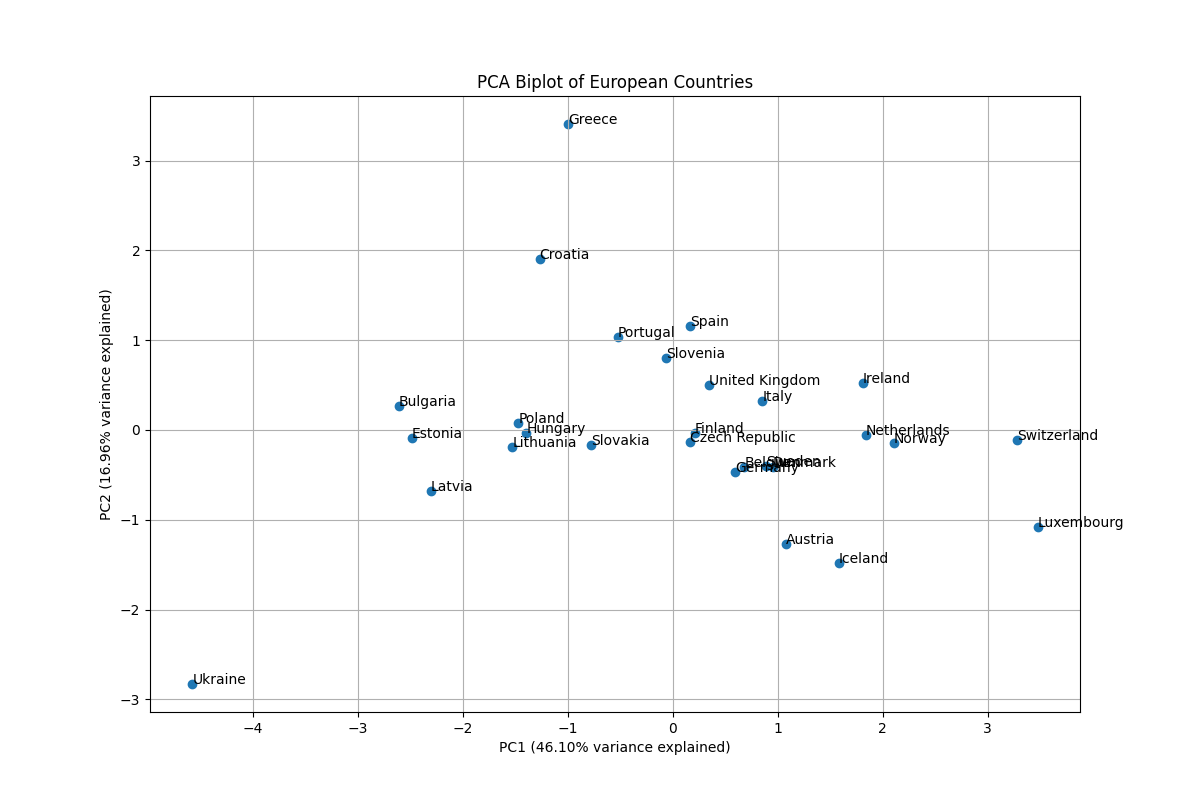
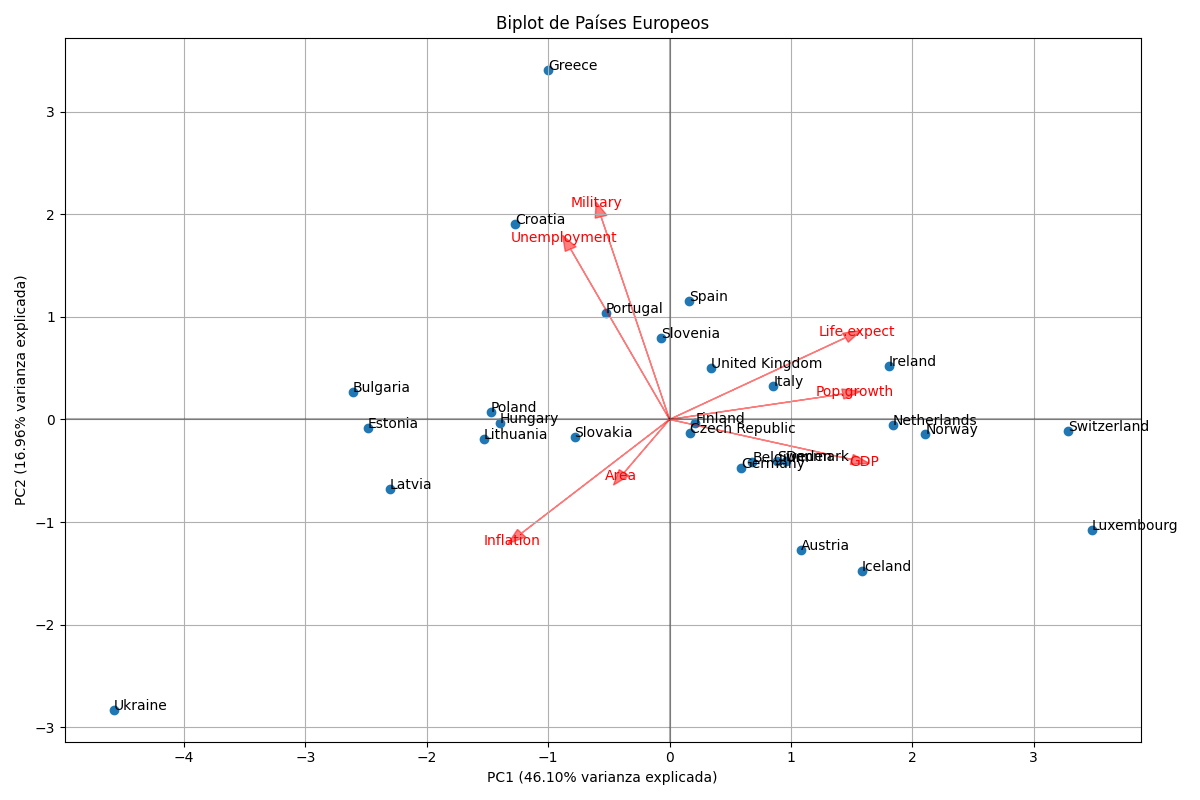
small fixes

diff --git a/pca_analysis.py b/pca_analysis.py
@@ -57,16 +57,41 @@ plt.tight_layout()
 plt.savefig('pc1_contributions.png')
 plt.close()
 
+# Create bar plot for PC1 scores by country
+plt.figure(figsize=(15, 8))
+pc1_scores = pd.DataFrame({'Country': countries, 'PC1': X_pca[:, 0]})
+pc1_scores_sorted = pc1_scores.sort_values('PC1', ascending=False)
+plt.bar(range(len(pc1_scores_sorted)), pc1_scores_sorted['PC1'])
+plt.xticks(range(len(pc1_scores_sorted)), pc1_scores_sorted['Country'], rotation=45, ha='right')
+plt.ylabel('Score PC1')
+plt.title('Contribución del PC1 por País')
+plt.grid(True, axis='y')
+plt.tight_layout()
+plt.savefig('pc1_countries.png')
+plt.close()
+
+# Create biplot for PC1 vs PC2
 plt.figure(figsize=(12, 8))
 plt.scatter(pca_df['PC1'], pca_df['PC2'])
 
+# Add country labels
 for i, country in enumerate(countries):
     plt.annotate(country, (pca_df['PC1'][i], pca_df['PC2'][i]))
 
-plt.xlabel(f'PC1 ({explained_variance_ratio[0]:.2%} variance explained)')
-plt.ylabel(f'PC2 ({explained_variance_ratio[1]:.2%} variance explained)')
-plt.title('PCA Biplot of European Countries')
+# Add arrows for each variable
+for i, feature in enumerate(X.columns):
+    plt.arrow(0, 0, pca.components_[0][i]*3, pca.components_[1][i]*3, 
+              color='r', alpha=0.5, head_width=0.1)
+    plt.text(pca.components_[0][i]*3.2, pca.components_[1][i]*3.2, 
+             feature, color='r', ha='center', va='center')
+
+plt.xlabel(f'PC1 ({explained_variance_ratio[0]:.2%} varianza explicada)')
+plt.ylabel(f'PC2 ({explained_variance_ratio[1]:.2%} varianza explicada)')
+plt.title('Biplot de Países Europeos')
 plt.grid(True)
+plt.axhline(y=0, color='k', linestyle='-', alpha=0.3)
+plt.axvline(x=0, color='k', linestyle='-', alpha=0.3)
+plt.tight_layout()
 plt.savefig('pca_biplot.png')
 plt.close()
 
